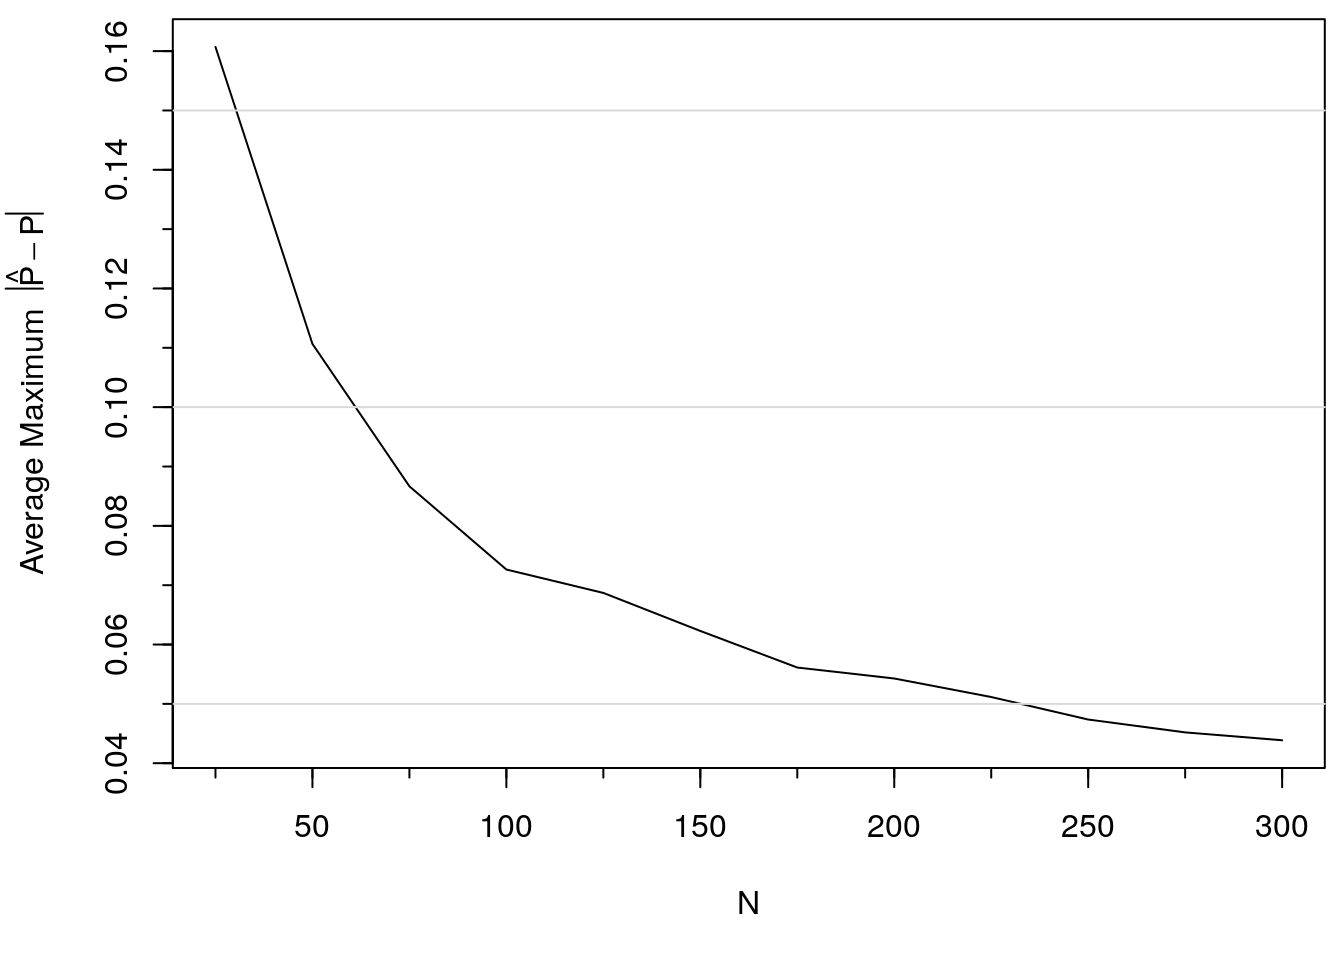
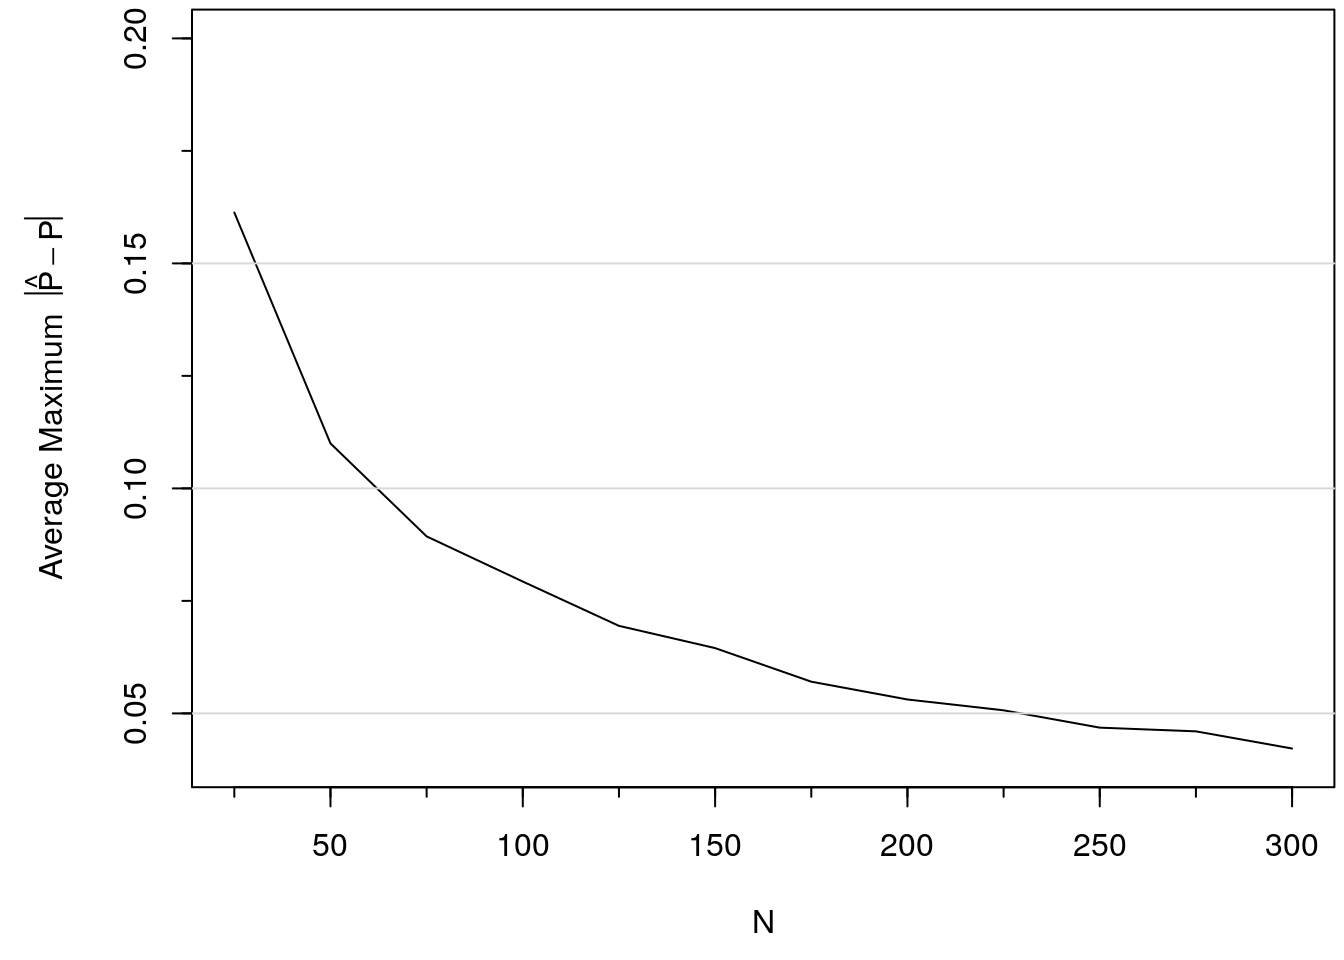
ml-sample-size: added example

diff --git a/content/post/ml-sample-size.html b/content/post/ml-sample-size.html
@@ -11,6 +11,7 @@ tags:
   - sample-size
   - validation
   - precision
+  - accuracy-score
 bibliography: [harrelfe.bib]
 link-citations: true
 ---
@@ -36,53 +37,84 @@ Figure 1: Margin for error (length of longer side of asymmetric 0.95 confidence 
 </div>
 <p>I have seen many papers in the biomedical research literature in which investigators “turned loose” a machine learning or deep learning algorithm with hundreds of candidate features and a sample size that by the above logic is inadequate had there only been one candidate feature. How can ML possibly learn how hundreds of predictors combine to predict an outcome when our knowledge of statistics would say this is impossible? The short answer is that it can’t. Researchers claiming to have developed a useful predictive instrument with ML in the limited sample size case seldom do a rigorous internal validation that demonstrates the relationship between predicted and observed values (i.e., the calibration curve) to be a straight 45° line through the origin. I have worked with a colleague who had previously worked with a ML group who found a predictive signal (high R<sup>2</sup>) with over 1000 candidate features and N=50 subjects. In trying to check their results on new subjects we appear to be finding an R<sup>2</sup> of zero.</p>
 <p><span class="citation">Ploeg, Austin, and Steyerberg (<a href="#ref-plo14mod">2014</a>)</span> in their article <a href="https://bmcmedresmethodol.biomedcentral.com/articles/10.1186/1471-2288-14-137">Modern modelling techniques are data hungry</a> estimated that to have a very high chance of rigorously validating, many machine learning algorithms require 200 events per <em>candidate</em> feature (they found that logistic regression requires 20 events per candidate features). So it seems that “big data” methods sometimes create the need for “big data” when traditional statistical methods may not require such huge sample sizes (at least when the dimensionality is not extremely high). [Note: in higher dimensonal situations it is possible to specify a traditional statistical model for the pre-specified “important” predictors and to add in principal components and other summaries of the remaining features.] Machine learning algorithms do seem to have unique advantages in high signal:noise ratio situations such as image and sound pattern recognition problems. Medical diagnosis and outcome prediction problems involve a low signal:noise ratio, i.e., the R<sup>2</sup> are typically low and the outcome variable Y is typically measured with error.</p>
-<p>I’ve shown the sample size needed to estimate a correlation coefficient with a certain precision. What about the sample size needed to estimate the whole relationship between a single continuous predictor and the probability of a binary outcome? Similar to what is presented in <a href="http://fharrell.com#links">RMS notes</a> Section 10.2.3, let’s simulate the average maximum (over a range of X) prediction error (on the probability scale). The following R program does this, for various sample sizes.</p>
-<pre class="r"><code>sigma   &lt;- 1.5
-ns      &lt;- seq(25, 300, by=25)
-nsim    &lt;- 1000
-xs      &lt;- seq(-1.5, 1.5, length=200)
-pactual &lt;- plogis(xs)
+<p>I’ve shown the sample size needed to estimate a correlation coefficient with a certain precision. What about the sample size needed to estimate the whole relationship between a single continuous predictor and the probability of a binary outcome? Similar to what is presented in <a href="http://fharrell.com#links">RMS notes</a> Section 10.2.3, let’s simulate the average maximum (over a range of X) absolute prediction error (on the probability scale). The following R program does this, for various sample sizes. 1000 simulated datasets are analyzed for each sample size considered.</p>
+<pre class="r"><code>require(rms)</code></pre>
+<pre class="r"><code># X  = universe of X values if X considered fixed, in random order
+# xp = grid of x values at which to obtain and judge predictions
+sim &lt;- function(assume = c(&#39;linear&#39;, &#39;smooth&#39;),
+                X,
+                ns=seq(25, 300, by=25), nsim=1000,
+                xp=seq(-1.5, 1.5, length=200), sigma=1.5,
+                xlim=range(ns)) {
+    assume &lt;- match.arg(assume)
+    maxerr &lt;- numeric(length(ns))
+    pactual &lt;- plogis(xp)
+    xfixed  &lt;- ! missing(X)
 
-maxerr &lt;- numeric(length(ns))
-require(rms)</code></pre>
-<pre class="r"><code>set.seed(1)
-
-j &lt;- 0
-  for(n in ns) {
-    j &lt;- j + 1
-    maxe &lt;- 0
-    for(k in 1 : nsim) {
-      x &lt;- rnorm(n, 0, sigma)
-      P &lt;- plogis(x)
-      y &lt;- ifelse(runif(n) &lt;= P, 1, 0)
-      beta &lt;- lrm.fit(x, y)$coefficients
-      phat &lt;- plogis(beta[1] + beta[2] * xs)
-      maxe &lt;- maxe + max(abs(phat - pactual))
+    j &lt;- 0
+    worst &lt;- nsim
+    for(n in ns) {
+        j &lt;- j + 1
+        maxe &lt;- 0
+        if(xfixed) x &lt;- X[1 : n]
+        nsuccess &lt;- 0
+        for(k in 1 : nsim) {
+            if(! xfixed) x &lt;- rnorm(n, 0, sigma)
+            P &lt;- plogis(x)
+            y &lt;- ifelse(runif(n) &lt;= P, 1, 0)
+            f &lt;- switch(assume,
+                        linear = lrm(y ~ x),
+                        smooth = lrm(y ~ rcs(x, 4)))
+            if(length(f$fail) &amp;&amp; f$fail) next
+            nsuccess &lt;- nsuccess + 1
+            phat &lt;- predict(f, data.frame(x=xp), type=&#39;fitted&#39;)
+            maxe &lt;- maxe + max(abs(phat - pactual))
+        }
+        maxe &lt;- maxe / nsuccess
+        maxerr[j] &lt;- maxe
+        worst &lt;- min(worst, nsuccess)
     }
-    maxe &lt;- maxe / nsim
-    maxerr[j] &lt;- maxe
-  }
-
-par(mar=c(5, 4.5, .5, .5))
-plot(ns, maxerr, type=&#39;l&#39;, xlab=&#39;N&#39;,
-     ylab=expression(paste(&#39;Average Maximum  &#39;, abs(hat(P) - P))))
-minor.tick()
-abline(h=c(.05, .1, .15), col=gray(.85))</code></pre>
+    if(worst &lt; nsim) cat(&#39;Could only run&#39;, worst, &#39;simulations for one sample size\n&#39;)
+    par(mar=c(4.5, 5, .25, .25))
+    plot(ns, maxerr, type=&#39;l&#39;, xlab=&#39;N&#39;, xlim, ylim=c(0.04, 0.2),
+         ylab=expression(paste(&#39;Average Maximum  &#39;, abs(hat(P) - P))))
+    minor.tick()
+    abline(h=c(.05, .1, .15), col=gray(.85))
+    list(x=ns, y=maxerr)
+}
+set.seed(1)
+X &lt;- rnorm(300, 0, sd=1.5)   # Allows use of same X&#39;s for both simulations
+errLinear &lt;- sim(assume=&#39;linear&#39;, X=X)</code></pre>
+<pre><code>## Could only run 999 simulations for one sample size</code></pre>
 <div class="figure"><span id="fig:logisticsim"></span>
-<img src="/post/ml-sample-size_files/figure-html/logisticsim-1.png" alt="Simulated expected maximum error in estimating probabilities for x ∈ [-1.5, 1.5] with a single normally distributed X with mean zero.  The true relationship between X and P(Y=1 | X) is assumed to be logit(Y=1) = X.  The logistic model fits that are repeated in the simulation assume the relationship is linear, but estimates the slope and intercept.  In reality, we wouldn't know that a relationship is linear, and if we allowed it to be nonlinear there would be a bit more variance to the estimate curve, resulting in larger average absolute errors than what are shown in the figure." width="672" />
+<img src="/post/ml-sample-size_files/figure-html/logisticsim-1.png" alt="Simulated expected maximum error in estimating probabilities for x ∈ [-1.5, 1.5] with a single normally distributed X with mean zero.  The true relationship between X and P(Y=1 | X) is assumed to be logit(Y=1) = X.  The logistic model fits that are repeated in the simulation assume the relationship is linear, but estimates the slope and intercept.  In reality, we wouldn't know that a relationship is linear, and if we allowed it to be nonlinear there would be a bit more variance to the estimate curve, resulting in larger average absolute errors than what are shown in the figure (see below)." width="672" />
 <p class="caption">
-Figure 2: Simulated expected maximum error in estimating probabilities for x ∈ [-1.5, 1.5] with a single normally distributed X with mean zero. The true relationship between X and P(Y=1 | X) is assumed to be logit(Y=1) = X. The logistic model fits that are repeated in the simulation assume the relationship is linear, but estimates the slope and intercept. In reality, we wouldn’t know that a relationship is linear, and if we allowed it to be nonlinear there would be a bit more variance to the estimate curve, resulting in larger average absolute errors than what are shown in the figure.
+Figure 2: Simulated expected maximum error in estimating probabilities for x ∈ [-1.5, 1.5] with a single normally distributed X with mean zero. The true relationship between X and P(Y=1 | X) is assumed to be logit(Y=1) = X. The logistic model fits that are repeated in the simulation assume the relationship is linear, but estimates the slope and intercept. In reality, we wouldn’t know that a relationship is linear, and if we allowed it to be nonlinear there would be a bit more variance to the estimate curve, resulting in larger average absolute errors than what are shown in the figure (see below).
 </p>
 </div>
+<p>But wait—the above simulation assumes that we already knew that the relationship was linear. In practice, most relationships are nonlinear but we don’t know the true transformation. Assume the relationship between X and logit(Y=1) is smooth, we can estimate the relationship reliably with a restricted cubic spline function. Here we use 4 knots, which gives rise to the addition of two nonlinear terms to the model for a total of 3 parameters to estimate not counting the intercept. By estimating these parameters we are estimating the smooth transformation of X and by simulating this process repeatedly we are allowing for “transformation uncertainty”.</p>
+<pre class="r"><code>set.seed(1)
+errSmooth &lt;- sim(assume=&#39;smooth&#39;, X=X, ns=seq(50, 300, by=25), xlim=c(25, 300))</code></pre>
+<pre><code>## Could only run 999 simulations for one sample size</code></pre>
+<pre class="r"><code>lines(errLinear, col=gray(.8))</code></pre>
+<div class="figure"><span id="fig:simrcs"></span>
+<img src="/post/ml-sample-size_files/figure-html/simrcs-1.png" alt="Estimated mean maximum (over X) absolute errors in estimating P(Y=1) when X is not assumed to predict the logit linearly (black line).  The earlier estimates when linearity was assumed are shown with a gray scale line.  Restricted cubic splines could not be fitted for n=25." width="672" />
+<p class="caption">
+Figure 3: Estimated mean maximum (over X) absolute errors in estimating P(Y=1) when X is not assumed to predict the logit linearly (black line). The earlier estimates when linearity was assumed are shown with a gray scale line. Restricted cubic splines could not be fitted for n=25.
+</p>
+</div>
+<p>You can see that the sample size must exceed 300 just to have sufficiency reliability in estimating probabilities just over the range of X of [-1.5, 1.5] when we do not know that the relationship is linear and we allow it to be nonlinear.</p>
 <p>The morals of the story are</p>
 <ul>
 <li>Beware of claims of good predictive ability for ML algorithms when sample sizes are not huge in relationship to the number of candidate features</li>
 <li>For any problem, whether using machine learning or regression, compute the sample size needed to obtain highly reliable predictions with only a single pre-specified predictive feature</li>
+<li>If you are not sure that relationships are simple so that you allow various transformations to be attempted, uncertainty increases and so does the expected absolute predicton error</li>
 <li>If your sample size is not much bigger than this, beware of doing any high-dimensional analysis unless you have very clean data and a high signal:noise ratio</li>
 <li>Also remember that when Y is binary, the minimum sample size necessary just to estimate the intercept in a logistic regression model (equivalent to estimating a single proporton) is 96 (see BBR 5.6.3). So it is impossible with binary Y to accurately estimate P(Y=1 | X) when there are <em>any</em> candidate predictors if n &lt; 96 (and n=96 only achives a margin of error of ±0.1 in estimating risk).</li>
 <li>When the number of candidate features is huge and the sample size is not, expect the list of “selected” features to be volatile, predictive discrimination to be overstated, and absolute predictive accuracy (calibration curve) to be very problematic</li>
 <li>In general, know how many observations are required to allow you to reliably learn from the number of candidate features you have</li>
 </ul>
+<p>See <a href="http://fharrell.com#links">BBR Chapter 20</a> for an approach to estimating the needed sample size for a given sample size and number of candidate predictors.</p>
 <div id="references" class="section level1 unnumbered">
 <h1>References</h1>
 <div id="refs" class="references">
